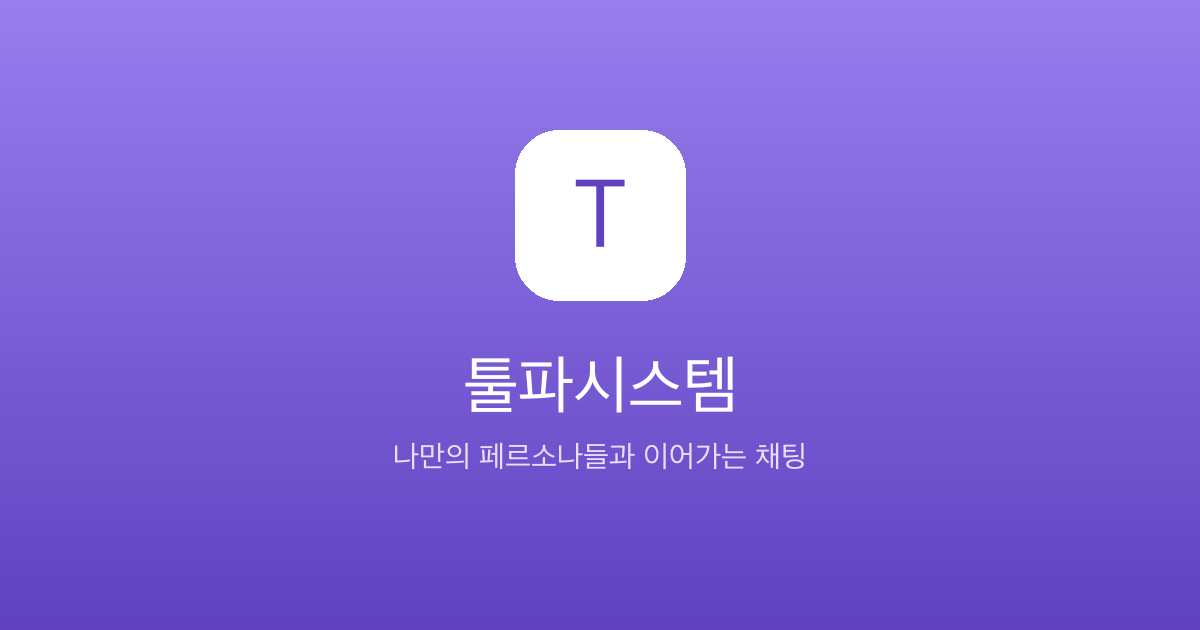
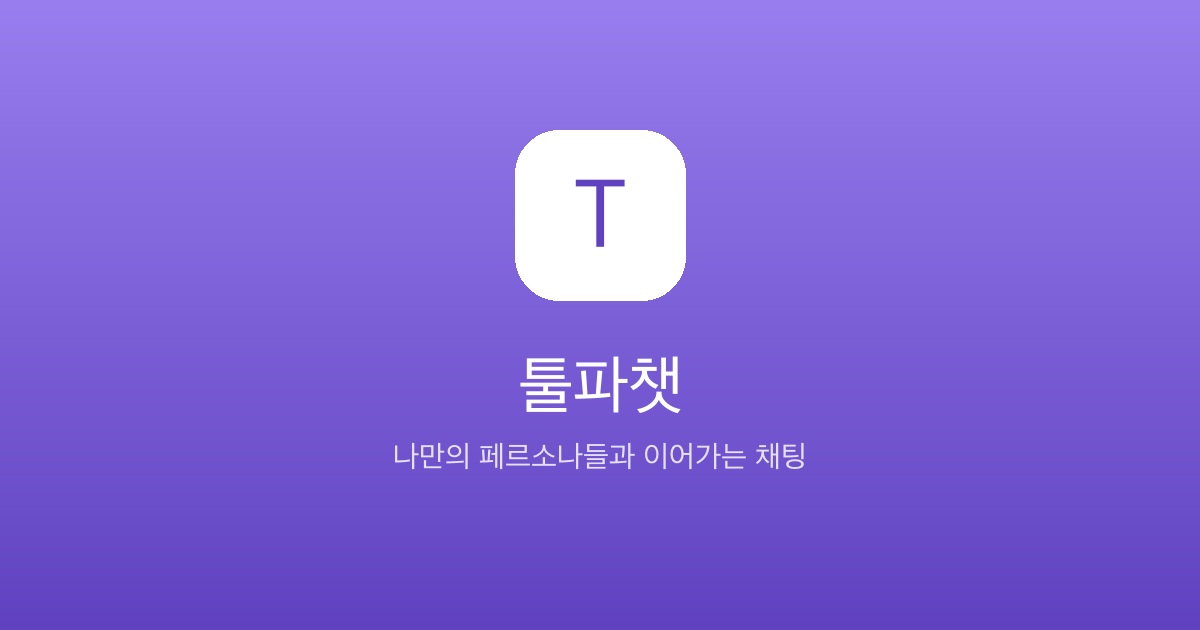
답장 인용 클릭 시 원본으로 스크롤 + 서버·워커 재시작 중 메시지 안 씹히게 + 이전 커밋에서 빠진 이름변경 마무리
새 기능 2가지:
- 답장 메시지의 인용문을 탭하면 원본 메시지로 스크롤·하이라이트
  (static/chat.js의 scrollToMessage()).
- 서버 재시작(1~3초) 중 메시지 전송은 네트워크 실패시에만 자동 재시도해서
  끊김 없이 전송되게 하고, 워커가 잠깐 안 돌던 동안 오래 대기한 턴은 실제
  AI 응답 전에 "업데이트하느라 자리 비웠다"는 복귀 안내를 먼저 보낸다
  (worker/persona_worker.py의 RESTART_GAP_NOTICE_SECONDS). 워커가 짧은
  시간에 여러 번 재시작되면 같은 턴에 안내가 중복 전송되던 실측 버그를
  pending_turns.restart_notice_sent 서버 플래그로 고쳐서, 3연속 재시작으로
  재현·검증까지 마쳤다.

그리고 직전 "툴파시스템 → 툴파챗" 이름변경 커밋(10ad147)이 이 폴더 안
일부 파일(README.md 제목, manifest.json, sw.js, index.html, og-image.png,
notion_personas.py, server/app.py의 FastAPI title, 그리고 무엇보다
worker/persona_worker.py가 유이의 chatapp/README.md를 읽어오는 REPO_ROOT
경로)의 실제 내용 변경분을 놓치고 있었다는 걸 이번에 재확인 중 발견해서
같이 마무리했다 — git add가 처음엔 성공한 것처럼 보였지만 실제로는
이 디렉터리 아래 몇몇 파일의 새 내용을 못 담았었다(sparse checkout 관련
추정, 원인 불명). 지금까지는 디스크상 파일은 항상 최신이라 실제 서비스는
멀쩡히 돌았지만 git 이력에는 없던 상태였다.

Changed region(s): [[0.37, 0.5429, 0.6167, 0.6635]]

diff --git a/툴파챗/chatapp/static/chat.js b/툴파챗/chatapp/static/chat.js
@@ -1320,6 +1320,18 @@ function openMessageMenu(message, hostEl, x, y) {
 
 document.addEventListener("pointerdown", (event) => { if (messageMenu && !messageMenu.contains(event.target)) closeMessageMenu(); });
 
+// ★ "답장 메시지에서 원 메시지 클릭하면 화면이 원 메시지로 이동하게 해달라"
+// 요청(2026-08-27) — 지금 방에 이미 렌더링된 메시지 중에서만 찾는다(방을
+// 열면 전체 기록을 한 번에 불러오므로 대부분 있음). 못 찾으면(아주 오래돼
+// 다른 방식으로 정리됐거나 하는 예외 상황) 조용히 무시한다.
+function scrollToMessage(messageId) {
+  const target = messagesEl.querySelector(`[data-message-id="${messageId}"]`);
+  if (!target) return;
+  target.scrollIntoView({ behavior: "smooth", block: "center" });
+  target.classList.add("highlight-flash");
+  setTimeout(() => target.classList.remove("highlight-flash"), 1200);
+}
+
 function appendMessage(m) {
   // ★ 2026-08-26: 다중 계정 로그인 전에는 sender==='user' 하나로 "내 메시지"를
   // 판별했다. 이제 여러 사람이 같은 방에 쓸 수 있어 서버가 내려주는
@@ -1329,6 +1341,7 @@ function appendMessage(m) {
   const isMine = !isPersona && m.sender === myUsername;
   const el = document.createElement("div");
   el.className = "msg " + (isPersona ? "msg-persona" : isMine ? "msg-user" : "msg-other");
+  el.dataset.messageId = String(m.id); // ★ 답장 인용 클릭 시 원본으로 스크롤하는 데 씀(2026-08-27)
   if (!isMine) {
     const avatar = document.createElement(m.avatar_url ? "img" : "div");
     avatar.className = "message-avatar";
@@ -1368,6 +1381,13 @@ function appendMessage(m) {
     const quoteText = document.createElement("span");
     quoteText.textContent = (m.reply_content || "").replace(IMAGE_MARKER_RE, "[사진]").slice(0, 90);
     quote.append(quoteName, quoteText);
+    // ★ "답장 메시지에서 원 메시지 클릭하면 화면이 원 메시지로 스크롤되게
+    // 해달라" 요청(2026-08-27) — 카톡처럼 인용문을 탭하면 원본으로 이동.
+    quote.title = "탭해서 원본 메시지로 이동";
+    quote.addEventListener("click", (event) => {
+      event.stopPropagation();
+      scrollToMessage(m.reply_message_id);
+    });
     body.appendChild(quote);
   }
   const imageMatch = IMAGE_MARKER_RE.exec(m.content);
@@ -1428,18 +1448,37 @@ async function poll() {
   pollTimer = setTimeout(poll, 2000);
 }
 
+// ★ "서버 업데이트로 껐다 켜는 도중에 메시지 보내면 반응이 끊긴다" 요청
+// (2026-08-27) — 서버 재시작(보통 1~3초)과 정확히 겹치면 fetch 자체가
+// 연결 실패로 던진다(401/403 같은 정상 응답이 아니라 네트워크 에러). 그
+// 경우에만 잠깐 기다렸다 재시도해서, 사용자가 다시 보낼 필요 없이 서버가
+// 돌아오면 그대로 전송되게 한다. 인증 문제(401/403)는 재시도해도 의미가
+// 없으니 그대로 둔다.
+const SEND_RETRY_ATTEMPTS = 5;
+const SEND_RETRY_DELAY_MS = 1200;
+
 async function sendMessage(content) {
   if (!currentRoom || !content) return;
-  try {
-    await apiFetch("/api/messages", {
-      method: "POST",
-      headers: { "Content-Type": "application/json" },
-      body: JSON.stringify({ content, room_id: currentRoom, reply_to: replyTarget, reply_message_id: replyMessage?.id || null }),
-    });
-  } catch (e) {
-    if (e.message !== "unauthorized" && e.message !== "forbidden") console.error(e);
-  }
+  const body = JSON.stringify({ content, room_id: currentRoom, reply_to: replyTarget, reply_message_id: replyMessage?.id || null });
   setReplyTarget(null);
+  for (let attempt = 1; attempt <= SEND_RETRY_ATTEMPTS; attempt++) {
+    try {
+      await apiFetch("/api/messages", {
+        method: "POST",
+        headers: { "Content-Type": "application/json" },
+        body,
+      });
+      return;
+    } catch (e) {
+      if (e.message === "unauthorized" || e.message === "forbidden") return;
+      if (attempt === SEND_RETRY_ATTEMPTS) {
+        console.error(e);
+        alert("메시지를 보내지 못했습니다. 잠시 후 다시 시도해주세요.");
+        return;
+      }
+      await new Promise((resolve) => setTimeout(resolve, SEND_RETRY_DELAY_MS));
+    }
+  }
 }
 
 document.getElementById("composer").addEventListener("submit", async (e) => {

diff --git a/툴파챗/chatapp/static/index.html b/툴파챗/chatapp/static/index.html
@@ -3,21 +3,21 @@
 <head>
 <meta charset="utf-8">
 <meta name="viewport" content="width=device-width, initial-scale=1, viewport-fit=cover">
-<title>툴파시스템</title>
+<title>툴파챗</title>
 <!-- ★ "카톡 링크 공유할 때 미리보기·앱 설명이 있으면 좋겠다" 요청(2026-08-26)
      — Open Graph/Twitter Card 태그. "/"는 인증 없이 누구나(카톡 미리보기
      크롤러 포함) 접근 가능한 공개 경로라 별도 서버 처리 없이 정적 HTML만으로
      충분하다. og:url은 넣지 않았다 — Cloudflare Quick Tunnel URL이 재시작마다
      바뀌어 이 파일에 고정 값을 넣을 수 없고, 크롤러는 보통 실제 접속한 주소를
      og:url 대신 써도 카드 렌더링에 문제 없다. -->
-<meta name="description" content="나만의 페르소나들과 이어가는 채팅 — 툴파시스템">
+<meta name="description" content="나만의 페르소나들과 이어가는 채팅 — 툴파챗">
 <meta property="og:type" content="website">
-<meta property="og:site_name" content="툴파시스템">
-<meta property="og:title" content="툴파시스템">
+<meta property="og:site_name" content="툴파챗">
+<meta property="og:title" content="툴파챗">
 <meta property="og:description" content="나만의 페르소나들과 이어가는 채팅. 대화방에 들어가 페르소나와 이야기를 나눠보세요.">
 <meta property="og:image" content="/static/og-image.png">
 <meta name="twitter:card" content="summary_large_image">
-<meta name="twitter:title" content="툴파시스템">
+<meta name="twitter:title" content="툴파챗">
 <meta name="twitter:description" content="나만의 페르소나들과 이어가는 채팅">
 <meta name="twitter:image" content="/static/og-image.png">
 <link rel="stylesheet" href="/static/style.css?v=20260827-linkify">
@@ -47,7 +47,7 @@
   <div id="auth-view" class="hidden">
     <div class="auth-card">
       <div class="auth-brand-mark" aria-hidden="true">T</div>
-      <h1 class="auth-title">툴파시스템</h1>
+      <h1 class="auth-title">툴파챗</h1>
       <p class="auth-subtitle">나만의 페르소나들과 이어가는 이야기</p>
       <div id="auth-tabs">
         <button type="button" class="auth-tab active" data-mode="login">로그인</button>

diff --git a/툴파챗/chatapp/static/style.css b/툴파챗/chatapp/static/style.css
@@ -662,8 +662,18 @@ main#messages {
   background: color-mix(in srgb, var(--bg) 72%, transparent);
   font-size: 12px;
   opacity: .82;
+  cursor: pointer;
+  transition: opacity .12s ease;
 }
+.message-reply-quote:hover, .message-reply-quote:active { opacity: 1; }
 .message-reply-quote span { overflow: hidden; text-overflow: ellipsis; white-space: nowrap; max-width: 280px; }
+
+/* ★ 답장 인용 클릭 → 원본으로 스크롤 시 잠깐 강조(2026-08-27) */
+@keyframes messageHighlightFlash {
+  0%, 100% { background: transparent; }
+  25% { background: color-mix(in srgb, var(--accent) 22%, transparent); }
+}
+.msg.highlight-flash .body { animation: messageHighlightFlash 1.2s ease; border-radius: 16px; }
 .message-reactions { display: flex; flex-wrap: wrap; gap: 4px; padding: 2px 3px 0; }
 .msg-user .message-reactions { justify-content: flex-end; }
 .reaction-chip {

diff --git a/툴파챗/chatapp/static/sw.js b/툴파챗/chatapp/static/sw.js
@@ -6,9 +6,9 @@ self.addEventListener("push", (event) => {
   try {
     data = event.data ? event.data.json() : {};
   } catch (e) {
-    data = { title: "툴파시스템", body: event.data ? event.data.text() : "" };
+    data = { title: "툴파챗", body: event.data ? event.data.text() : "" };
   }
-  const title = data.title || "툴파시스템";
+  const title = data.title || "툴파챗";
   event.waitUntil(
     self.registration.showNotification(title, {
       body: data.body || "",

diff --git a/툴파챗/chatapp/server/app.py b/툴파챗/chatapp/server/app.py
@@ -1,4 +1,4 @@
-"""툴파시스템 채팅앱 서버 (이 Mac에서 실행, Cloudflare Tunnel로 노출).
+"""툴파챗 서버 (이 Mac에서 실행, Cloudflare Tunnel로 노출).
 
 이 서버는 채팅 UI를 제공하고 메시지·대기열을 SQLite에 저장할 뿐, 실제 AI 응답은
 절대 생성하지 않는다 — Claude/Codex CLI 인증 정보를 공개 인터넷에 노출된
@@ -219,7 +219,7 @@ class NoCacheStaticMiddleware(BaseHTTPMiddleware):
         return response
 
 
-app = FastAPI(title="툴파시스템 채팅앱")
+app = FastAPI(title="툴파챗")
 app.add_middleware(SessionAuthMiddleware)
 app.add_middleware(NoCacheStaticMiddleware)
 init_db()
@@ -1803,7 +1803,8 @@ def worker_pending(authorization: Optional[str] = Header(None)):
     _check_worker_auth(authorization)
     conn = get_conn()
     row = conn.execute(
-        "SELECT id, persona_name, room_id, rerouted FROM pending_turns WHERE status = 'pending' ORDER BY id LIMIT 1"
+        "SELECT id, persona_name, room_id, rerouted, created_at, restart_notice_sent "
+        "FROM pending_turns WHERE status = 'pending' ORDER BY id LIMIT 1"
     ).fetchone()
     if not row:
         conn.close()
@@ -1818,8 +1819,33 @@ def worker_pending(authorization: Optional[str] = Header(None)):
         "persona_name": row["persona_name"],
         "room_id": row["room_id"],
         "rerouted": bool(row["rerouted"]),
+        # ★ "서버 업데이트로 껐다 켜는 도중에 메시지 보내면 반응이 끊긴다"
+        # 요청(2026-08-27) — 워커가 이 턴이 얼마나 오래 대기했는지 알아야
+        # "재시작 때문에 늦었다"는 안내를 보낼지 판단할 수 있다.
+        "created_at": row["created_at"],
+        # restart_notice_sent가 이미 1이면 워커가 (자기 자신이 여러 번
+        # 재시작됐더라도) 이 턴에는 안내를 다시 보내지 않는다 — 아래
+        # mark_restart_notice_sent 참고.
+        "restart_notice_sent": bool(row["restart_notice_sent"]),
         "context": [dict(r) for r in reversed(context_rows)],
     }
+
+
+class RestartNoticeMark(BaseModel):
+    turn_id: int
+
+
+@app.post("/api/worker/mark_restart_notice_sent")
+def worker_mark_restart_notice_sent(body: RestartNoticeMark, authorization: Optional[str] = Header(None)):
+    """워커가 재시작 공백 안내를 보낸 직후 호출해 이 턴을 "안내 완료"로
+    표시한다. 워커 프로세스가 짧은 시간에 여러 번 재시작돼도(배포 중 연속
+    kickstart 등) 같은 턴에 안내가 중복 전송되지 않게 서버가 기억한다."""
+    _check_worker_auth(authorization)
+    conn = get_conn()
+    conn.execute("UPDATE pending_turns SET restart_notice_sent = 1 WHERE id = ?", (body.turn_id,))
+    conn.commit()
+    conn.close()
+    return {"ok": True}
 
 
 @app.get("/api/worker/room_candidates")
@@ -2162,6 +2188,34 @@ def worker_post_admin_report(body: AdminReportPost, authorization: Optional[str]
     conn.execute(
         "INSERT INTO messages (room_id, sender, content, created_at) VALUES (?, ?, ?, ?)",
         (ADMIN_PERSONA_NAME, ADMIN_PERSONA_NAME, body.content, _now()),
+    )
+    conn.commit()
+    conn.close()
+    return {"ok": True}
+
+
+class WorkerPostMessage(BaseModel):
+    persona_name: str
+    room_id: str
+    content: str
+
+
+@app.post("/api/worker/post_message")
+def worker_post_message(body: WorkerPostMessage, authorization: Optional[str] = Header(None)):
+    """post_admin_report와 같은 패턴을 일반화한 것 — 워커가 pending_turns
+    큐를 거치지 않고 아무 방에나 페르소나 명의로 바로 메시지를 남긴다.
+    사용자 메시지에 대한 실시간 응답이 아니라 워커가 스스로 먼저 말을
+    거는 경우에 쓴다.
+
+    ★ 2026-08-27: "서버 업데이트로 껐다 켜는 도중에 메시지 보내면 반응이
+    끊긴다"는 요청으로 처음 추가 — 워커가 재시작 후 오래 대기한 pending_turn을
+    발견하면, 실제 AI 응답 전에 이 엔드포인트로 짧은 복귀 안내를 먼저
+    보낸다(worker/persona_worker.py의 RESTART_GAP_NOTICE_SECONDS 참고)."""
+    _check_worker_auth(authorization)
+    conn = get_conn()
+    conn.execute(
+        "INSERT INTO messages (room_id, sender, content, created_at) VALUES (?, ?, ?, ?)",
+        (body.room_id, body.persona_name, body.content, _now()),
     )
     conn.commit()
     conn.close()

diff --git a/툴파챗/chatapp/server/db.py b/툴파챗/chatapp/server/db.py
@@ -1,4 +1,4 @@
-"""툴파시스템 채팅앱의 SQLite 저장소.
+"""툴파챗의 SQLite 저장소.
 
 표준 라이브러리 sqlite3만 쓴다 — 클라우드에 배포되는 부분이라 의존성을 최소로
 유지한다. 스키마: personas(페르소나 캐시), messages(채팅 로그, room_id로
@@ -159,6 +159,13 @@ def init_db():
     # 더 알맞은 담당자로 돌려보낼 수 있다(rerouted=1이면 재검토 끝, 무한
     # 왕복 방지).
     _ensure_column(conn, "pending_turns", "rerouted", "INTEGER NOT NULL DEFAULT 0")
+    # ★ "서버 업데이트로 껐다 켜는 도중에 메시지 보내면 반응이 끊긴다" 요청
+    # (2026-08-27) — 워커가 재시작 공백 안내를 보냈는지 서버가 기억해둔다.
+    # 워커 프로세스 자체가 짧은 시간에 여러 번 재시작되면(배포 중 연속
+    # kickstart 등) 같은 pending_turn을 매번 다시 집어 들어 안내를 중복
+    # 전송하는 문제가 실제로 있었다 — 워커 메모리가 아니라 서버 DB에
+    # 플래그를 둬야 재시작 횟수와 무관하게 딱 한 번만 보낸다.
+    _ensure_column(conn, "pending_turns", "restart_notice_sent", "INTEGER NOT NULL DEFAULT 0")
     # ★ "채팅방에 새 메시지 있으면 사용자들한테도 알람이 가게 해달라"
     # 요청(2026-08-27) — 브라우저 Web Push 구독 정보(방마다가 아니라
     # 계정마다 — 여러 기기에서 구독하면 여러 행이 쌓인다). endpoint가

diff --git a/툴파챗/chatapp/worker/notion_personas.py b/툴파챗/chatapp/worker/notion_personas.py
@@ -1,4 +1,4 @@
-"""툴파시스템 메인 Notion 페이지 아래 하위 페이지(페르소나)들을 찾아서, 각
+"""툴파챗 메인 Notion 페이지 아래 하위 페이지(페르소나)들을 찾아서, 각
 페르소나 페이지의 본문을 읽어 대화용 시스템 프롬프트 텍스트로 변환한다.
 
 Notion 통합 토큰은 이직시스템/일본어자막추출과 동일한 키체인 항목

diff --git a/툴파챗/README.md b/툴파챗/README.md
@@ -1,4 +1,4 @@
-# 툴파시스템
+# 툴파챗
 
 개인용 페르소나 동반자 시스템. 가상 인물·실존 인물·고전 속 인물을 "페르소나"로 정의하고,
 평소에 그 인물에 대해 떠오르는 생각·설정·상상을 기록해 두면, 그 누적된 기록을 바탕으로
@@ -30,7 +30,7 @@ Claude가 해당 인물이 되어 사용자와 대화한다. 정보를 전달하
 ## 왜 코드가 아니라 Notion인가
 
 이 저장소의 다른 프로젝트(이직시스템·경진대회시스템·손자병법)는 "코드가 데이터를 만들고
-Notion은 발행처"인 구조지만, 툴파시스템은 반대다 — 만들어지는 게 코드로 처리할 구조화 데이터가
+Notion은 발행처"인 구조지만, 툴파챗은 반대다 — 만들어지는 게 코드로 처리할 구조화 데이터가
 아니라 자유 형식의 기록과 대화 서사이기 때문에, 처음부터 Notion 페이지 자체를 저장소로 쓴다.
 나중에 페르소나 수가 많아지고 기록이 길어져 자동 요약이 필요해지면(로드맵 Phase 2) 그때
 `session_journal/`과 비슷한 작은 스크립트를 추가한다.
